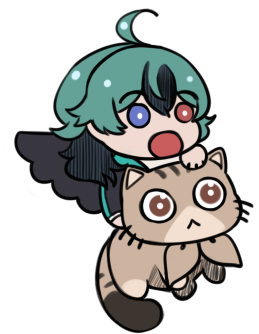
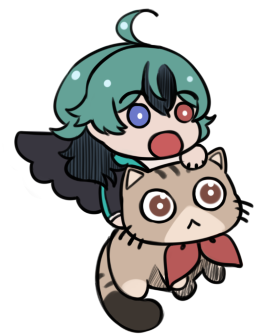
Updated Asset/CSS
CSS
-changed logo max width to 70px
Asset
-updated aquacheeb with new maro bow color

Changed region(s): [[0.6178, 0.6886, 0.9266, 0.8683]]

diff --git a/index.js b/index.js
@@ -1,54 +1,32 @@
-// //Array of arrays containing two strings 
-// [["1","2"], ["1","2"]....["n-1","n-2"]]
-// format:["1 -> quote"], ["2 -> Speaker"]
-let quotes = [];
-quotes = quoteImport("./AquaQuotes.txt");
-//Array that holds quotes
-//delimiter is "#. "
-//arrays can hold multiple items. 2 strings ??? I might not do this
-//But if the string ends with "" " then it ends the process and looks for the next "*. "
-//So we wanna read in the file
-//add it to an array
-//fetch, async, await 
+var quotes = [];
+
+if (quotes == null){
+	declareQuotes();
+}
+rngQuote();
+
+
+function declareQuotes(){
+	quotes = quoteImport("./AquaQuotes.txt");
+}
+
 async function quoteImport(filename){
+
 	//empty array to hold all arrays of quote, speake
 	let QuoteSpeakerArray = [];
 
 	//contributed by zenonnnn pog
 	let massivestring = await fetch(new Request(filename)).then(result => result.text());
 
-	let fileLines = massivestring.split("\r\n");
+	let QuoteSpeakerArray = massivestring.split("\r\n");
 
-	// console.log(fileLines.length);
-	
-	//Import the file 
-	//take the text
-	//break it on a newline (or the delimiter of like, #. ) into like a list 
-	//loop through the list breaking the quotes into two sections
-	//add those sections into a bigger array with part 1, part 2. 
-	//for loop here that repeats for all the lines in the quotes line
-	//For line in file put it as one string that then gets parsed. So we can 
-	//parse the line on a /n character
-	for(let i = 0; i < fileLines.length; i++) {
-		let workingString = fileLines[i];
-		let QuoteSpeaker = (workingString.split("\" "));
-		QuoteSpeaker[0] = QuoteSpeaker[0] + "\"";
-		QuoteSpeakerArray.push(QuoteSpeaker);
-
-	}
-	
 	return QuoteSpeakerArray;
 }
-async function rngQuote(){
-	if(quotes == null){
-		quotes = await quoteImport("./AquaQuotes.txt");
-	}
-	let quote = await quotes
-	const rngQuote = Math.floor(Math.random() * (quote.length)) + 1;
-	//randomint assigns random number to a variable
-	//the variable calls a quote in the quotes array
-	//replace html quote with said quote using dom 
-	//To replace html quotes its 
-	document.getElementById("quoteElement").innerHTML = quote[rngQuote][0];
-	document.getElementById("speakerElement").innerHTML = quote[rngQuote][1];
+
+function rngQuote(){
+	const rngQuote = Math.floor(Math.random() * (quotes.length)) + 1;
+
+	document.getElementById("quoteElement").innerHTML = quotes[rngQuote];
+
+	console.log(quotes[rngQuote]);
 }

diff --git a/css/styles.css b/css/styles.css
@@ -99,7 +99,7 @@ footer{
 
 .logo{
 	max-width: 70px;
-	max-height: auto;
+	max-height: 70px;
 }
 
 footer ul{
